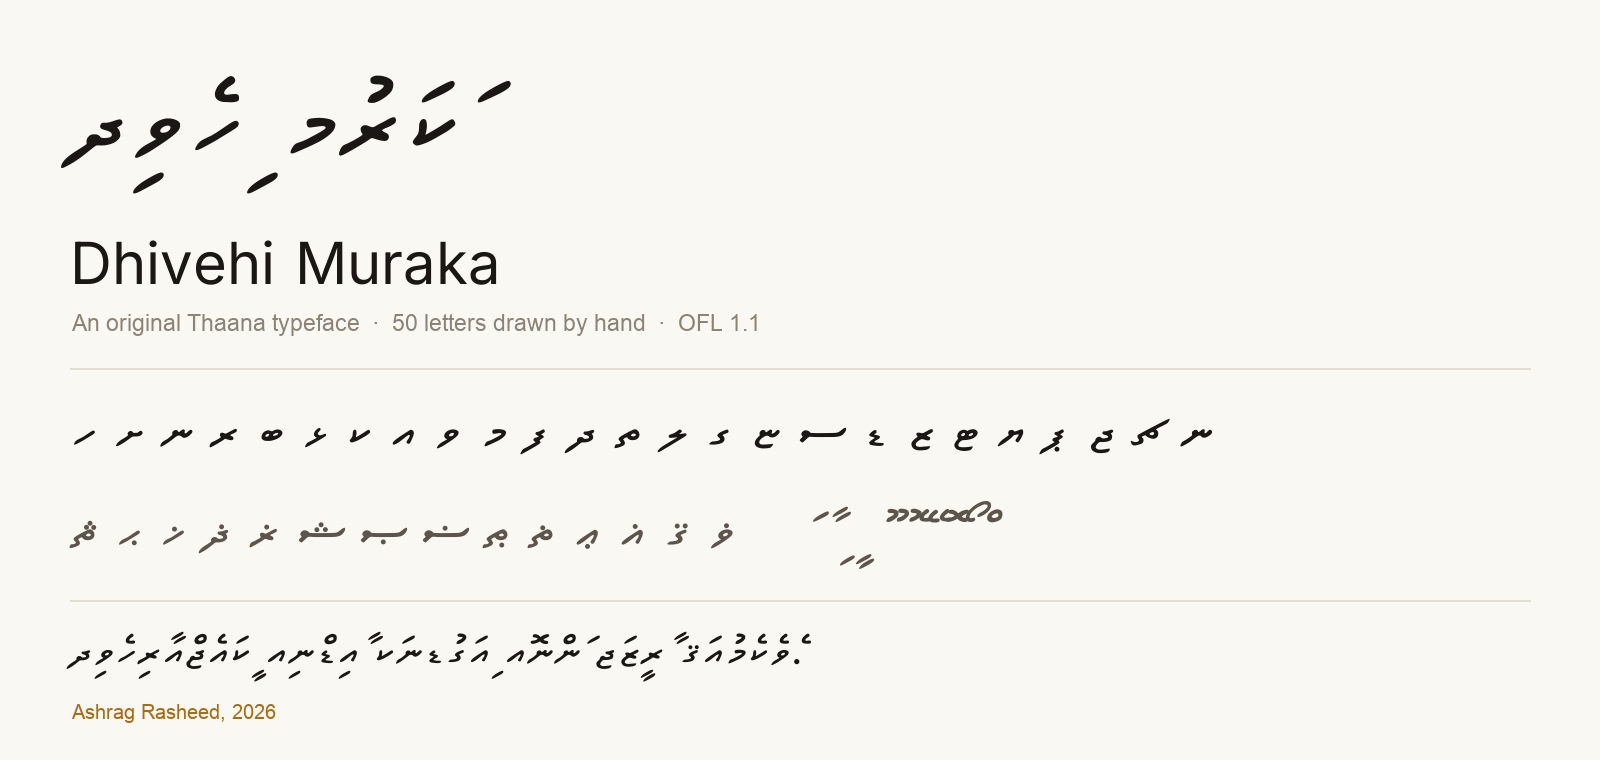
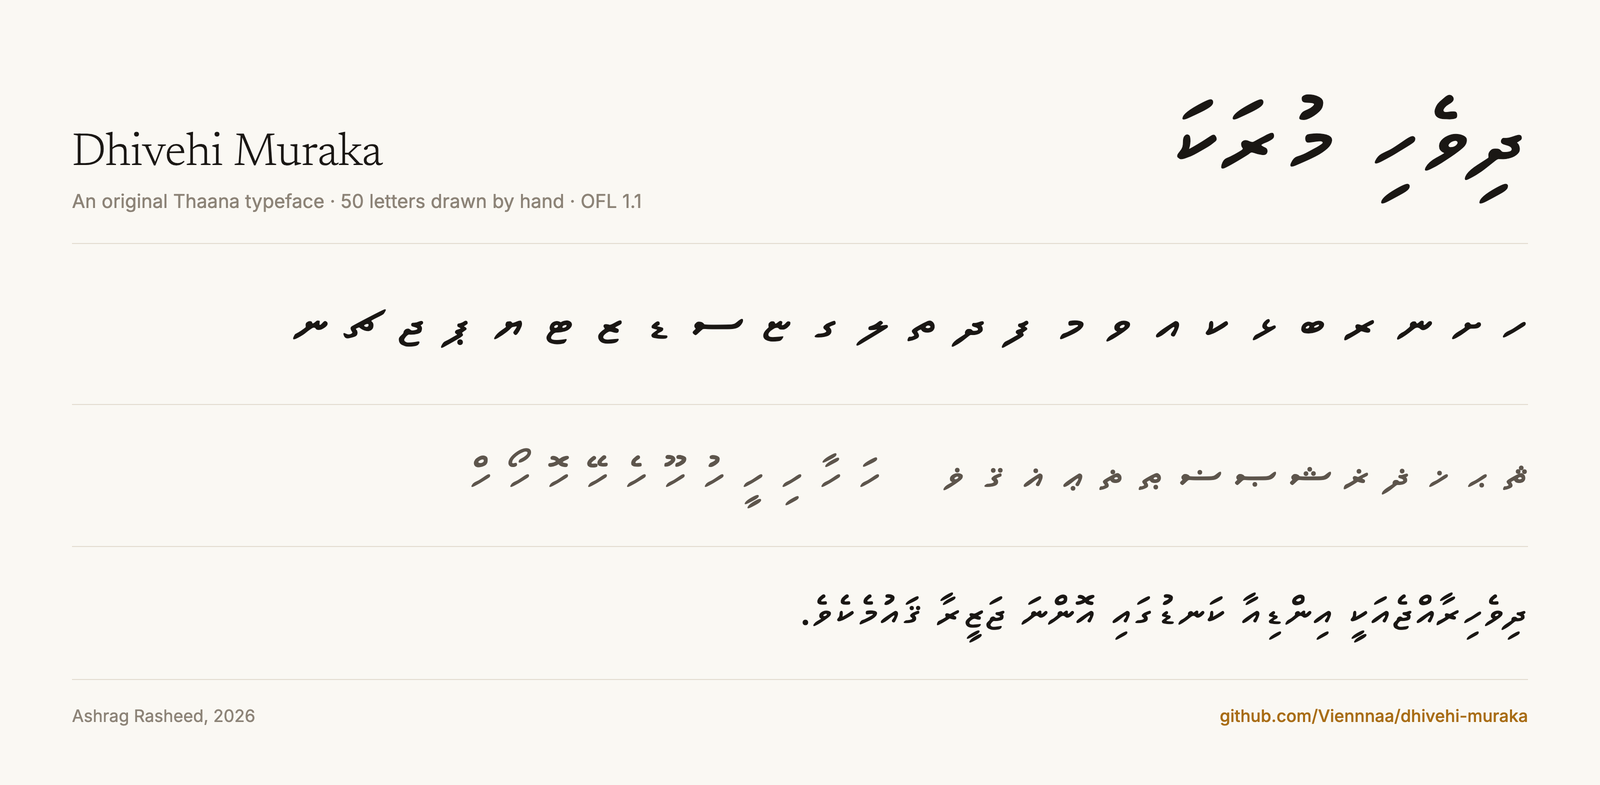
Render the specimen image through a browser
PIL does not shape right-to-left text, so the previous image had detached fili
and reversed letter order. Rendering via the browser shapes it correctly.

diff --git a/muraka-editor/banner.html b/muraka-editor/banner.html
@@ -1,0 +1,36 @@
+<link rel="stylesheet" href="https://fonts.googleapis.com/css2?family=Newsreader:wght@300;400&family=Inter:wght@400;500&display=swap">
+<style>
+@font-face{font-family:M;src:url('DhivehiMuraka-Regular.ttf')}
+*{box-sizing:border-box;margin:0}
+body{background:#FAF8F3;font-family:Inter,sans-serif;color:#1A1714}
+.card{width:1600px;padding:64px 72px 58px}
+.dv{font-family:M,serif;direction:rtl;text-align:right;unicode-bidi:isolate}
+.top{display:flex;align-items:flex-end;justify-content:space-between;gap:40px;padding-bottom:30px}
+.name-dv{font-size:96px;line-height:1.55}
+.name-en{font-family:Newsreader,Georgia,serif;font-weight:300;font-size:46px;line-height:1.15;color:#1A1714}
+.sub{font-size:19px;color:#8C8377;margin-top:9px}
+.rule{border-top:1px solid #E4DDD1}
+.band{padding:30px 0}
+.row{font-size:54px;line-height:1.85}
+.row.small{font-size:44px;color:#5D554C}
+.sentence{font-size:40px;line-height:1.8}
+.foot{display:flex;justify-content:space-between;align-items:baseline;padding-top:26px;font-size:17px;color:#8C8377}
+.foot b{color:#A86C14;font-weight:500}
+</style>
+<div class="card">
+  <div class="top">
+    <div>
+      <div class="name-en">Dhivehi Muraka</div>
+      <div class="sub">An original Thaana typeface &middot; 50 letters drawn by hand &middot; OFL 1.1</div>
+    </div>
+    <div class="name-dv dv">ދިވެހި މުރަކަ</div>
+  </div>
+  <div class="rule"></div>
+  <div class="band"><div class="row dv">ހ ށ ނ ރ ބ ޅ ކ އ ވ މ ފ ދ ތ ލ ގ ޏ ސ ޑ ޒ ޓ ޔ ޕ ޖ ޗ ޱ</div></div>
+  <div class="rule"></div>
+  <div class="band"><div class="row small dv">ޘ ޙ ޚ ޛ ޜ ޝ ޞ ޟ ޠ ޡ ޢ ޣ ޤ ޥ &nbsp;&nbsp; ހަ ހާ ހި ހީ ހު ހޫ ހެ ހޭ ހޮ ހޯ ހް</div></div>
+  <div class="rule"></div>
+  <div class="band"><div class="sentence dv">ދިވެހިރާއްޖެއަކީ އިންޑިއާ ކަނޑުގައި އޮންނަ ޖަޒީރާ ޤައުމެކެވެ.</div></div>
+  <div class="rule"></div>
+  <div class="foot"><span>Ashrag Rasheed, 2026</span><span><b>github.com/Viennnaa/dhivehi-muraka</b></span></div>
+</div>
